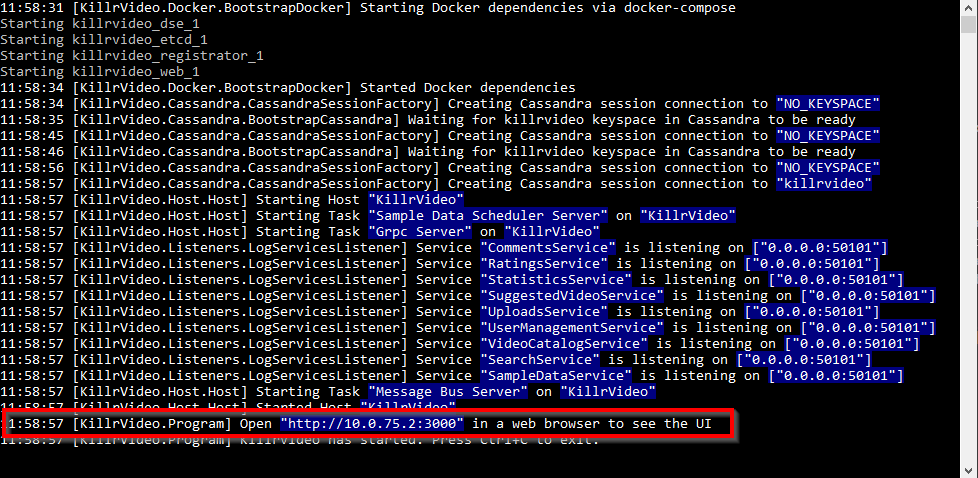
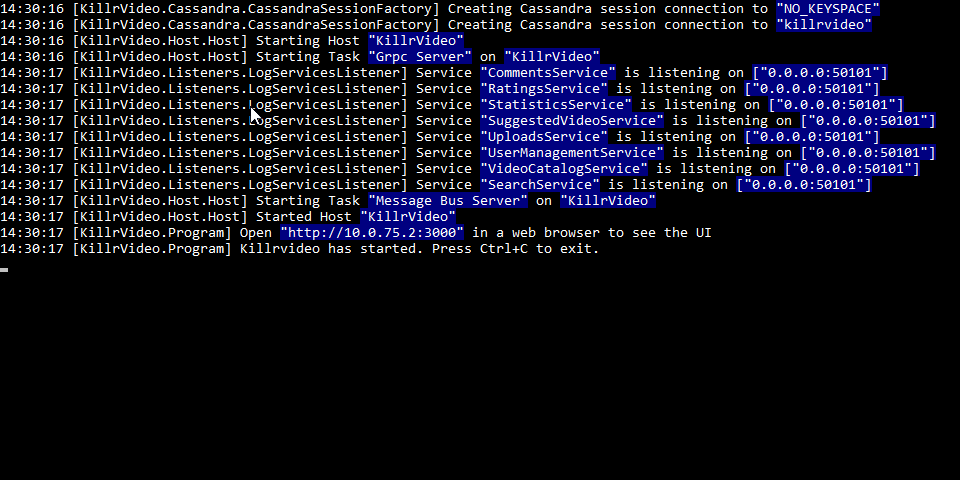
Update C# startup directions
- Docker compose is now a manual step so it's easier to tell when something goes wrong with that setup

diff --git a/src/site/docs/languages/c-sharp/index.md b/src/site/docs/languages/c-sharp/index.md
@@ -20,20 +20,26 @@ have Docker up and running, follow these steps:
    ```
    > git clone https://github.com/LukeTillman/killrvideo-csharp.git
    ```
+1. From inside the repository you just cloned, setup the Docker environment for the first
+time by running:
+    ```
+    > setup-docker.bat
+    ```
+    This should create a `.env` file with some environment variables, as well as pull all the
+    Docker images that the application needs to run.
+
+1. Start the docker dependencies that you just pulled down via `docker-compose`:
+    ```
+    > docker-compose up -d
+    ```
+    This starts up things like a DataStax Enterprise node, the Web UI, etc. You can learn
+    more about how we use Docker in our [Docker Guide][docker-guide] documentation.
+
 1. Open the main solution (**`/src/KillrVideo.sln`**) in Visual Studio.
 1. Set the **KillrVideo** project as the Startup Project.
    * Right-click on the KillrVideo project node in Visual Studio's Solution Explorer window 
      and choose **Set as Startup Project** from the context menu.
 1. Press **`F5`** to build the solution and run with debugging.
-
-The first time you run KillrVideo, the application will have to download all the Docker 
-images it needs in order to run (for example, it needs to run one node of DataStax Enterprise
-for the microservices to store data in). This means that for your first run, the application 
-will be delayed on startup until those container images have been downloaded and started.
-Subsequent runs of the application should be fast since Docker won't need to download the
-images again and can just start the containers.
-
-You can learn more about how we use Docker in our [Docker Guide][docker-guide] documentation.
 
 ## Opening the Web UI
 
